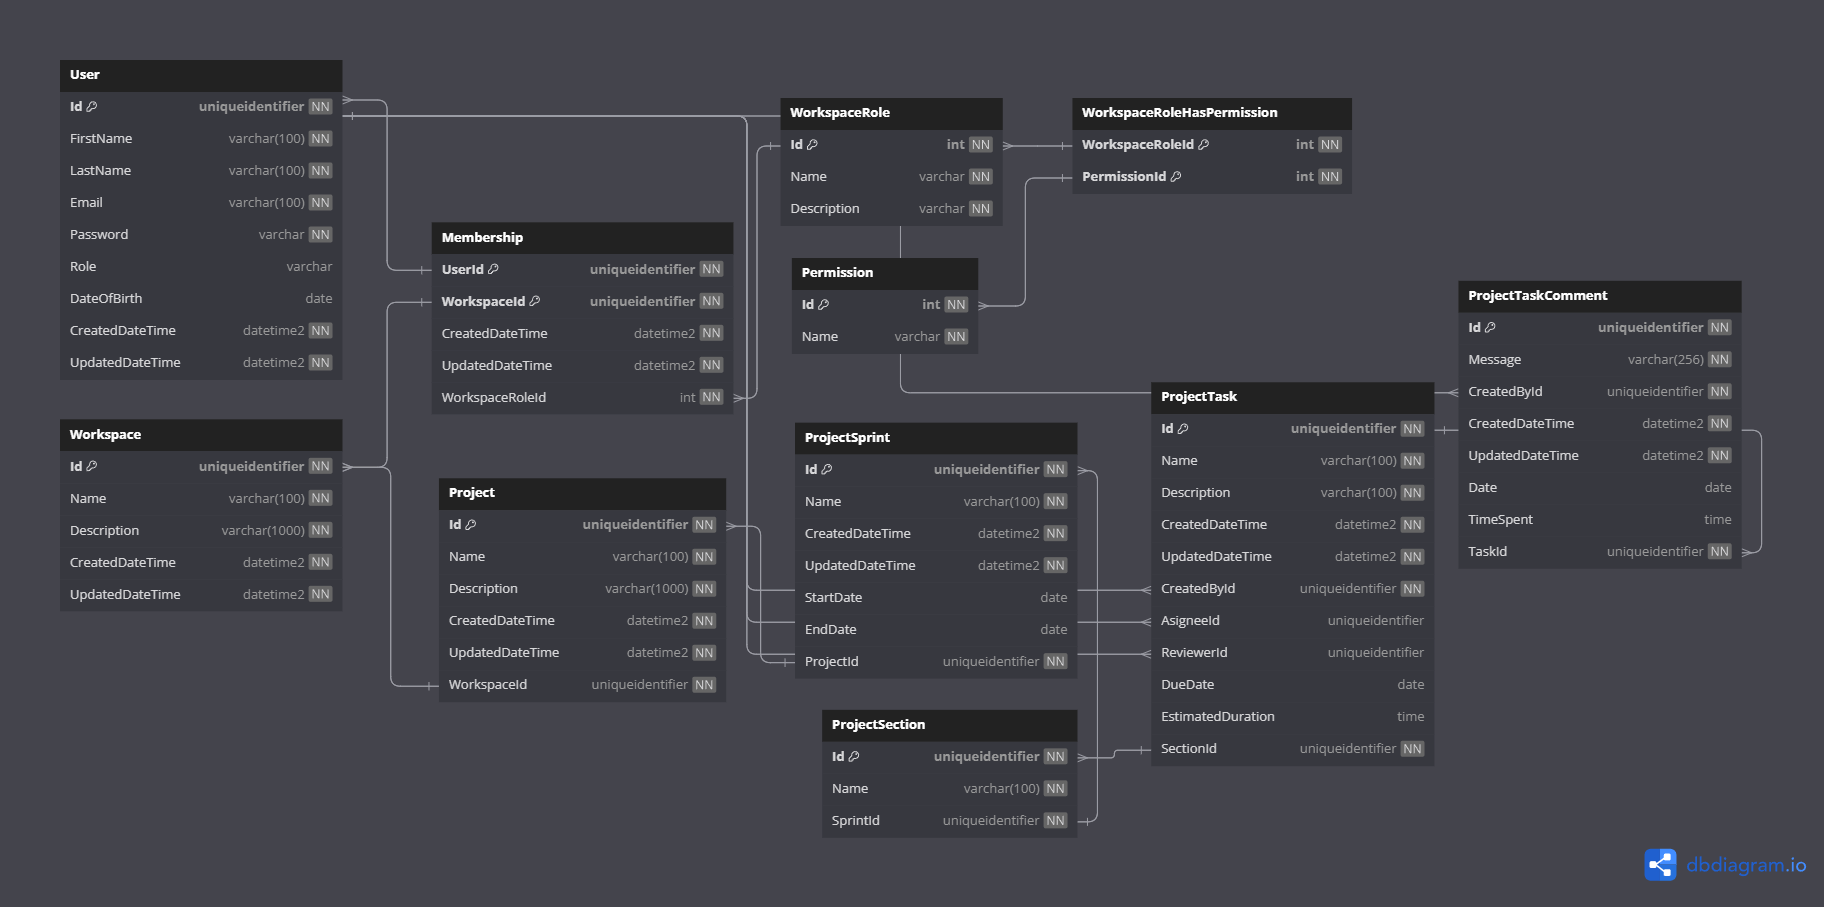
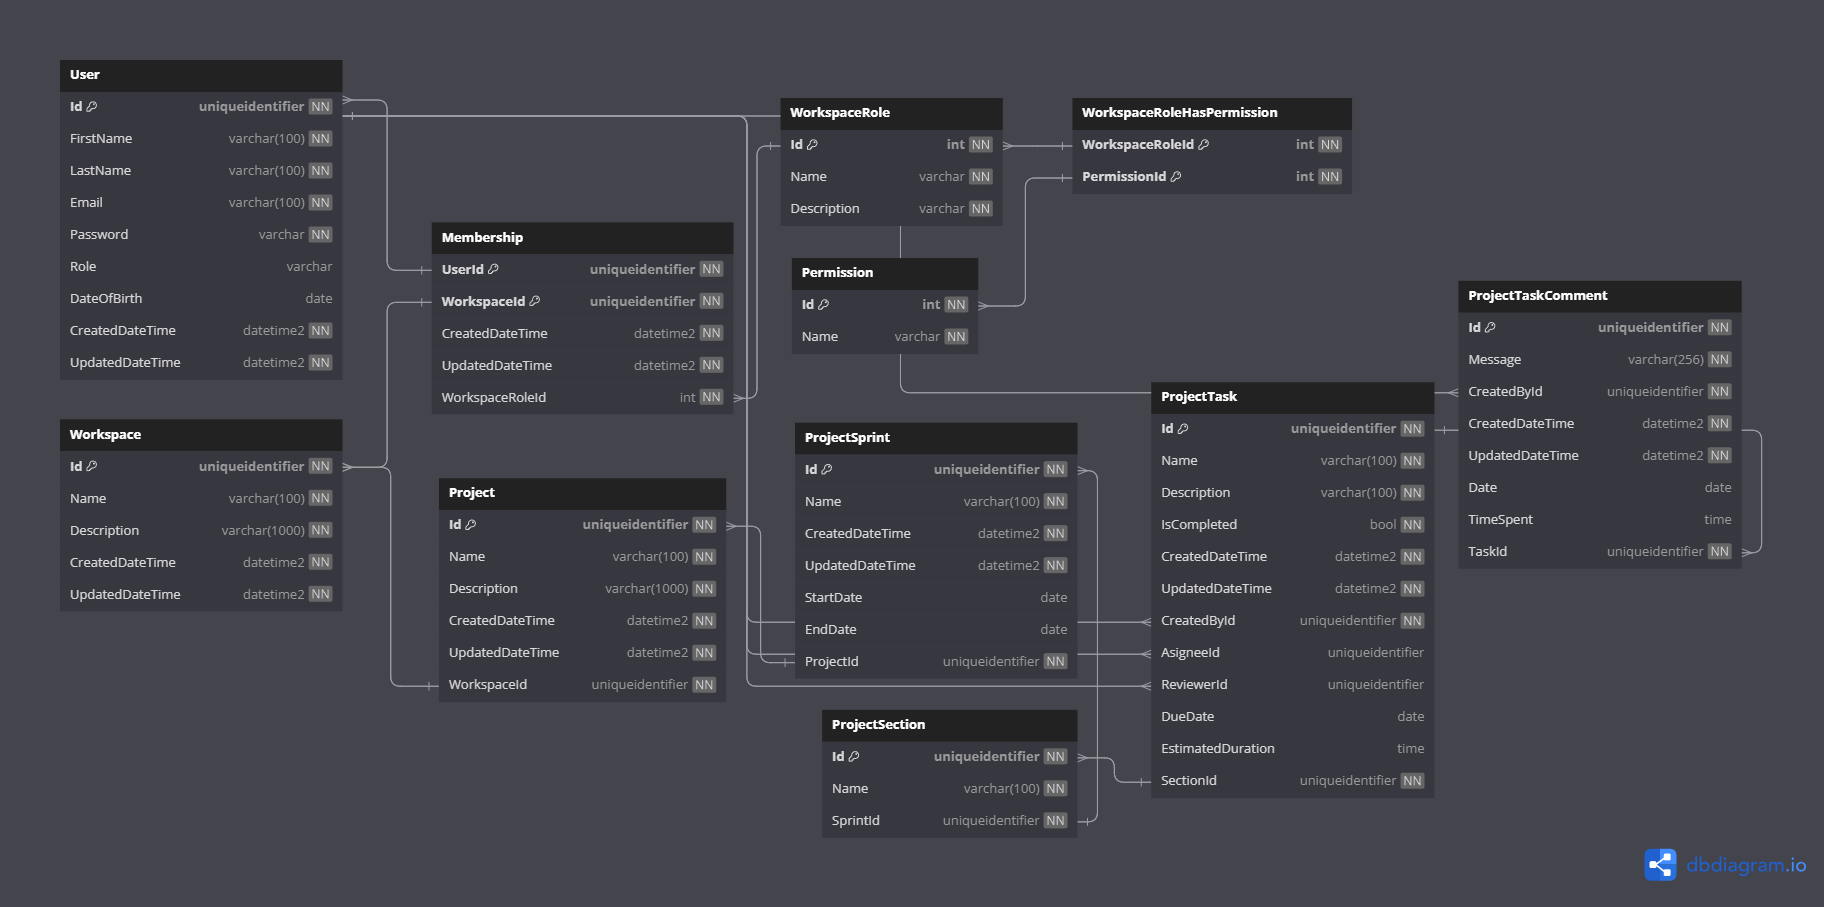
#40 Domain - Project Aggregate - new Property on Project Task: Is Completed + documentation + new Migration

diff --git a/src/ConsiliumTempus.Infrastructure/Migrations/20240214163002_InitialCreate.Designer.cs b/src/ConsiliumTempus.Infrastructure/Migrations/20240214163002_InitialCreate.Designer.cs
@@ -12,7 +12,7 @@ using Microsoft.EntityFrameworkCore.Storage.ValueConversion;
 namespace ConsiliumTempus.Infrastructure.Migrations
 {
     [DbContext(typeof(ConsiliumTempusDbContext))]
-    [Migration("20240214134817_InitialCreate")]
+    [Migration("20240214163002_InitialCreate")]
     partial class InitialCreate
     {
         /// <inheritdoc />
@@ -317,8 +317,8 @@ namespace ConsiliumTempus.Infrastructure.Migrations
                             b1.Property<DateTime>("CreatedDateTime")
                                 .HasColumnType("datetime2");
 
-                            b1.Property<DateTime?>("EndDate")
-                                .HasColumnType("datetime2");
+                            b1.Property<DateOnly?>("EndDate")
+                                .HasColumnType("date");
 
                             b1.Property<string>("Name")
                                 .IsRequired()
@@ -328,8 +328,8 @@ namespace ConsiliumTempus.Infrastructure.Migrations
                             b1.Property<Guid>("ProjectId")
                                 .HasColumnType("uniqueidentifier");
 
-                            b1.Property<DateTime?>("StartDate")
-                                .HasColumnType("datetime2");
+                            b1.Property<DateOnly?>("StartDate")
+                                .HasColumnType("date");
 
                             b1.Property<DateTime>("UpdatedDateTime")
                                 .HasColumnType("datetime2");
@@ -389,6 +389,9 @@ namespace ConsiliumTempus.Infrastructure.Migrations
 
                                             b3.Property<TimeSpan?>("EstimatedDuration")
                                                 .HasColumnType("time");
+
+                                            b3.Property<bool>("IsCompleted")
+                                                .HasColumnType("bit");
 
                                             b3.Property<string>("Name")
                                                 .IsRequired()

diff --git a/src/ConsiliumTempus.Domain/Project/Entities/ProjectTask.cs b/src/ConsiliumTempus.Domain/Project/Entities/ProjectTask.cs
@@ -16,6 +16,7 @@ public sealed class ProjectTask : Entity<ProjectTaskId>, ITimestamps
     private ProjectTask(
         string name,
         string description,
+        bool isCompleted,
         UserAggregate createdBy,
         ProjectSection section,
         DateTime createdDateTime,
@@ -23,6 +24,7 @@ public sealed class ProjectTask : Entity<ProjectTaskId>, ITimestamps
     {
         Name = name;
         Description = description;
+        IsCompleted = isCompleted;
         CreatedBy = createdBy;
         Section = section;
         CreatedDateTime = createdDateTime;
@@ -33,6 +35,7 @@ public sealed class ProjectTask : Entity<ProjectTaskId>, ITimestamps
     
     public string Name { get; private set; } = string.Empty;
     public string Description { get; private set; } = string.Empty;
+    public bool IsCompleted { get; private set; }
     public UserAggregate CreatedBy { get; private set; } = default!;
     public DateTime CreatedDateTime { get; init; }
     public DateTime UpdatedDateTime { get; private set; }
@@ -40,7 +43,7 @@ public sealed class ProjectTask : Entity<ProjectTaskId>, ITimestamps
     public UserAggregate? Reviewer { get; private set; }
     public DateOnly? DueDate { get; private set; }
     public TimeSpan? EstimatedDuration { get; private set; }
-    public ProjectSection Section { get; init; } = default!;
+    public ProjectSection Section { get; private set; } = default!;
     public IReadOnlyList<ProjectTaskComment> Comments => _comments.AsReadOnly();
 
     public static ProjectTask Create(
@@ -52,6 +55,7 @@ public sealed class ProjectTask : Entity<ProjectTaskId>, ITimestamps
         return new ProjectTask(
             name,
             description,
+            false,
             createdBy,
             section,
             DateTime.UtcNow, 

diff --git a/src/ConsiliumTempus.Infrastructure/Migrations/ConsiliumTempusDbContextModelSnapshot.cs b/src/ConsiliumTempus.Infrastructure/Migrations/ConsiliumTempusDbContextModelSnapshot.cs
@@ -314,8 +314,8 @@ namespace ConsiliumTempus.Infrastructure.Migrations
                             b1.Property<DateTime>("CreatedDateTime")
                                 .HasColumnType("datetime2");
 
-                            b1.Property<DateTime?>("EndDate")
-                                .HasColumnType("datetime2");
+                            b1.Property<DateOnly?>("EndDate")
+                                .HasColumnType("date");
 
                             b1.Property<string>("Name")
                                 .IsRequired()
@@ -325,8 +325,8 @@ namespace ConsiliumTempus.Infrastructure.Migrations
                             b1.Property<Guid>("ProjectId")
                                 .HasColumnType("uniqueidentifier");
 
-                            b1.Property<DateTime?>("StartDate")
-                                .HasColumnType("datetime2");
+                            b1.Property<DateOnly?>("StartDate")
+                                .HasColumnType("date");
 
                             b1.Property<DateTime>("UpdatedDateTime")
                                 .HasColumnType("datetime2");
@@ -386,6 +386,9 @@ namespace ConsiliumTempus.Infrastructure.Migrations
 
                                             b3.Property<TimeSpan?>("EstimatedDuration")
                                                 .HasColumnType("time");
+
+                                            b3.Property<bool>("IsCompleted")
+                                                .HasColumnType("bit");
 
                                             b3.Property<string>("Name")
                                                 .IsRequired()

diff --git a/src/ConsiliumTempus.Infrastructure/Migrations/20240214163002_InitialCreate.cs b/src/ConsiliumTempus.Infrastructure/Migrations/20240214163002_InitialCreate.cs
@@ -161,8 +161,8 @@ namespace ConsiliumTempus.Infrastructure.Migrations
                     Name = table.Column<string>(type: "nvarchar(100)", maxLength: 100, nullable: false),
                     CreatedDateTime = table.Column<DateTime>(type: "datetime2", nullable: false),
                     UpdatedDateTime = table.Column<DateTime>(type: "datetime2", nullable: false),
-                    StartDate = table.Column<DateTime>(type: "datetime2", nullable: true),
-                    EndDate = table.Column<DateTime>(type: "datetime2", nullable: true),
+                    StartDate = table.Column<DateOnly>(type: "date", nullable: true),
+                    EndDate = table.Column<DateOnly>(type: "date", nullable: true),
                     ProjectId = table.Column<Guid>(type: "uniqueidentifier", nullable: false)
                 },
                 constraints: table =>
@@ -202,6 +202,7 @@ namespace ConsiliumTempus.Infrastructure.Migrations
                     Id = table.Column<Guid>(type: "uniqueidentifier", nullable: false),
                     Name = table.Column<string>(type: "nvarchar(100)", maxLength: 100, nullable: false),
                     Description = table.Column<string>(type: "nvarchar(1000)", maxLength: 1000, nullable: false),
+                    IsCompleted = table.Column<bool>(type: "bit", nullable: false),
                     CreatedById = table.Column<Guid>(type: "uniqueidentifier", nullable: false),
                     CreatedDateTime = table.Column<DateTime>(type: "datetime2", nullable: false),
                     UpdatedDateTime = table.Column<DateTime>(type: "datetime2", nullable: false),

diff --git a/docs/domain/diagrams/aggregates/Diagram.Project.md b/docs/domain/diagrams/aggregates/Diagram.Project.md
@@ -10,6 +10,8 @@
     [Project Section](../../entities/project/Entity.ProjectSection.md) entity.
     - The Section has a **One-to-Many** relationship with the
       [Project Task](../../entities/project/Entity.ProjectTask.md) entity.
+      - The Task has a **One-to-Many** relationship with the 
+      [Project Task Comment](../../entities/project/Entity.ProjectTaskComment.md) entity.
 
 ### Diagram
 

diff --git a/docs/domain/entities/project/Entity.ProjectTask.md b/docs/domain/entities/project/Entity.ProjectTask.md
@@ -17,6 +17,7 @@ class ProjectTask
   "id": { "value": "00000000-0000-0000-0000-000000000000" },
   "name": "Task 1",
   "description": "This is the description of the task",
+  "isCompleted": false,
   "createdBy": {},
   "createdDateTime": "2020-01-01T00:00:00.0000000Z",
   "updatedDateTime": "2020-01-01T00:00:00.0000000Z",
